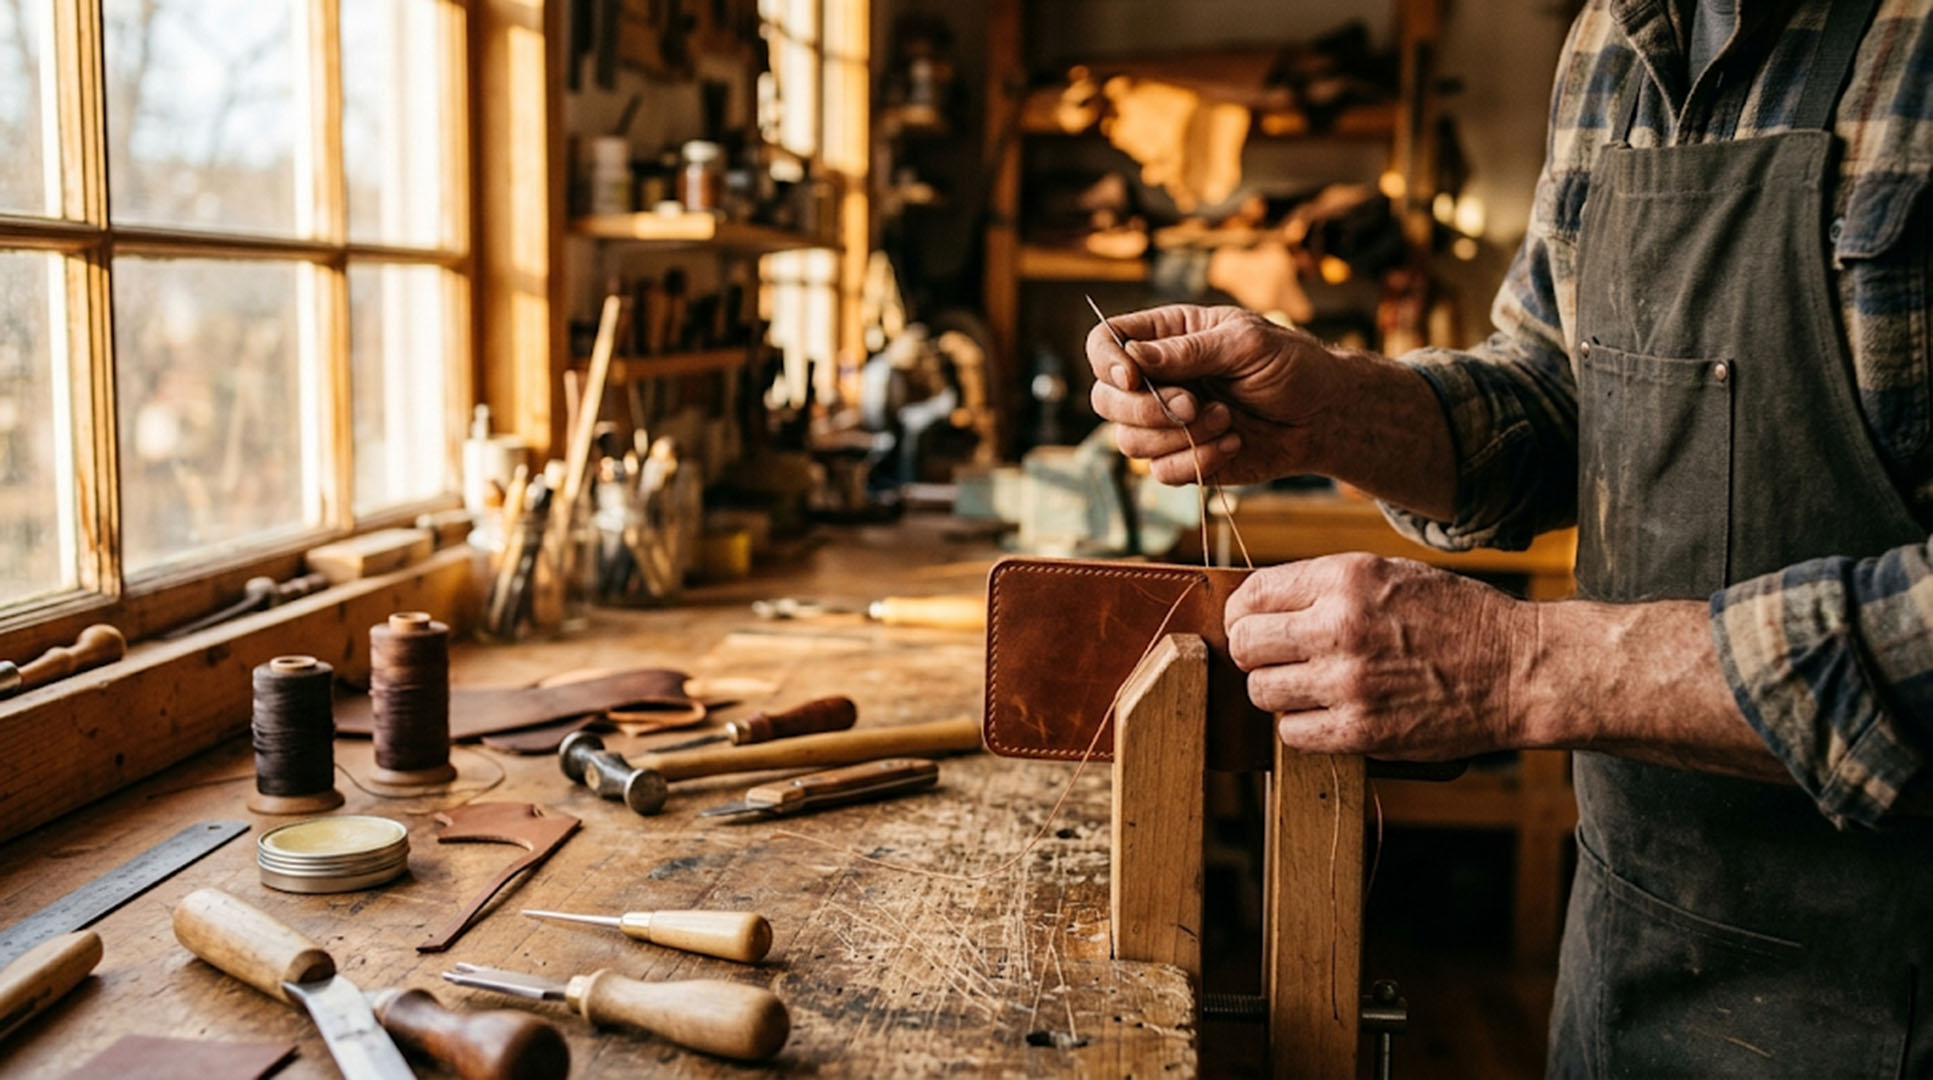
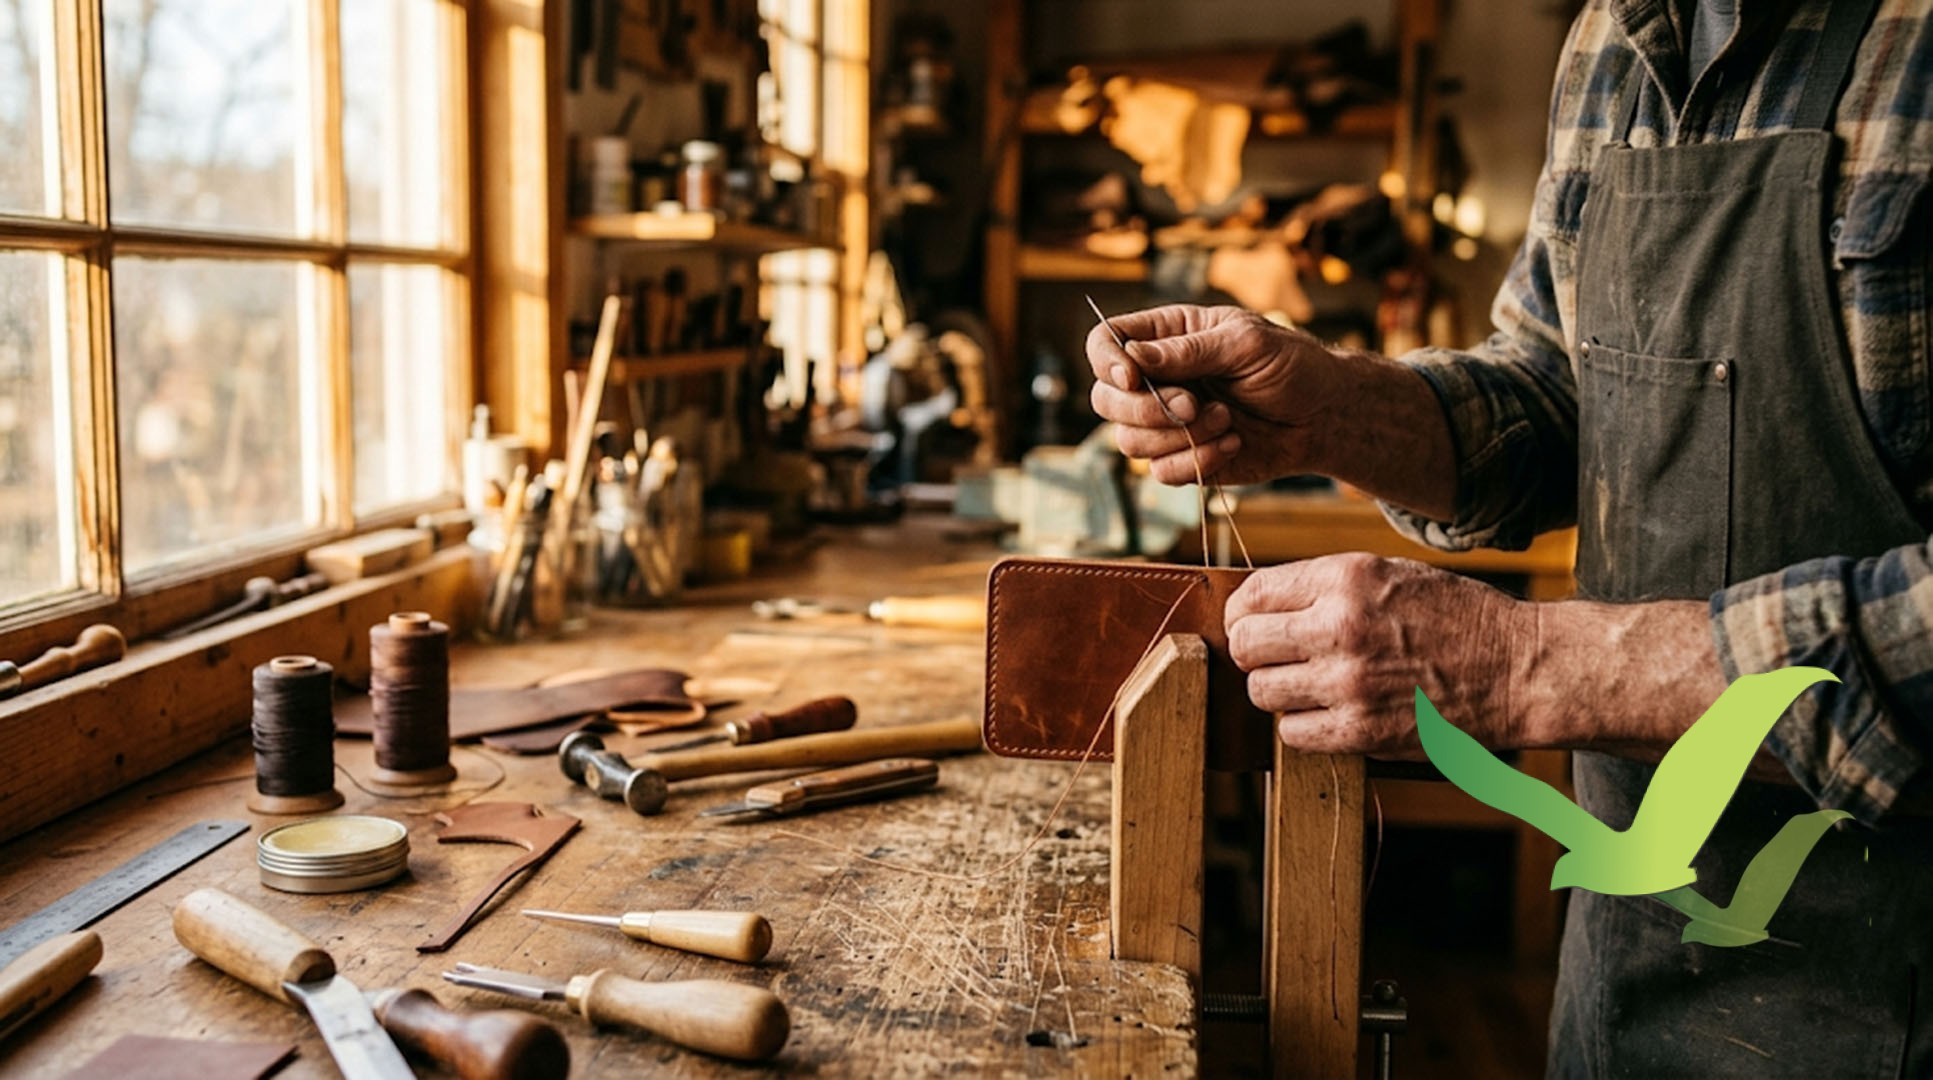
Auto-watermark on new image uploads via Filament
Adds WatermarkService that stamps the gaviota logo (center, 15% width,
40% opacity) on images when they are saved through Filament.

- News model: applies watermark on save when featured_image changes
  (skips migrated images in news-images/ to preserve originals)
- WorkArea model: same behavior for work area images
- WatermarkService: standalone class using GD, no external deps

Migrated images from Joomla are left untouched — only NEW uploads
get watermarked. The command images:watermark still exists for batch
processing if needed later.

Changed region(s): [[0.7139, 0.6111, 0.9622, 0.8861]]

diff --git a/app/Console/Commands/AddWatermark.php b/app/Console/Commands/AddWatermark.php
@@ -17,7 +17,8 @@ class AddWatermark extends Command
                             {--force : Re-procesar incluso las que ya tienen marca de agua}
                             {--size=15 : Porcentaje del ancho de la imagen que ocupa el watermark}
                             {--opacity=30 : Opacidad del watermark (0-100)}
-                            {--dir=news-images : Directorio dentro de storage/app/public/ a procesar}';
+                            {--dir=news-images : Directorio dentro de storage/app/public/ a procesar}
+                            {--all : Procesar TODOS los directorios de imágenes (news-images + hero)}';
 
     protected $description = 'Agrega marca de agua (gaviota) a las imágenes del storage.';
 
@@ -33,40 +34,61 @@ class AddWatermark extends Command
             return self::FAILURE;
         }
 
-        $dir = $this->option('dir');
         $force = (bool) $this->option('force');
         $sizePct = (int) $this->option('size');
         $opacity = (int) $this->option('opacity');
+        $all = (bool) $this->option('all');
 
-        $storagePath = storage_path('app/public/' . $dir);
-        if (!is_dir($storagePath)) {
-            $this->error("Directorio no encontrado: {$storagePath}");
-            return self::FAILURE;
+        // Directorios a procesar
+        $dirs = [];
+        if ($all) {
+            $dirs[] = storage_path('app/public/news-images');
+            $dirs[] = public_path('images/hero');
+        } else {
+            $dirs[] = storage_path('app/public/' . $this->option('dir'));
         }
 
-        // Archivo de tracking para saber cuáles ya procesamos
+        foreach ($dirs as $storagePath) {
+            if (!is_dir($storagePath)) {
+                $this->warn("Directorio no encontrado: {$storagePath} — saltando.");
+                continue;
+            }
+            $this->info("\nProcesando: {$storagePath}");
+            $this->processDirectory($storagePath, $watermarkPath, $force, $sizePct, $opacity);
+        }
+
+        $this->newLine();
+        $this->table(['Métrica', 'Valor'], [
+            ['Procesadas', $this->processed],
+            ['Ya tenían watermark', $this->skipped],
+            ['Fallidas', $this->failed],
+        ]);
+
+        return self::SUCCESS;
+    }
+
+    private function processDirectory(string $storagePath, string $watermarkPath, bool $force, int $sizePct, int $opacity): void
+    {
         $trackingFile = $storagePath . '/.watermarked';
         $alreadyDone = [];
         if (!$force && file_exists($trackingFile)) {
             $alreadyDone = array_filter(explode("\n", file_get_contents($trackingFile)));
         }
 
-        // Cargar watermark una sola vez
         $watermark = imagecreatefrompng($watermarkPath);
         if (!$watermark) {
             $this->error('No se pudo cargar el PNG del watermark.');
-            return self::FAILURE;
+            return;
         }
         imagealphablending($watermark, true);
         imagesavealpha($watermark, true);
         $wmWidth = imagesx($watermark);
         $wmHeight = imagesy($watermark);
 
-        // Buscar todas las imágenes
         $files = glob($storagePath . '/*.{jpg,jpeg,png,webp}', GLOB_BRACE);
         $total = count($files);
 
-        $this->info("Procesando {$total} imágenes en {$dir}/ (watermark {$sizePct}%, opacidad {$opacity}%)...");
+        $this->info("{$total} imágenes (watermark {$sizePct}%, opacidad {$opacity}%)");
         $bar = $this->output->createProgressBar($total);
         $bar->start();
 
@@ -95,22 +117,13 @@ class AddWatermark extends Command
         }
 
         $bar->finish();
-        $this->newLine(2);
+        $this->newLine();
 
-        // Actualizar tracking
         if (!empty($newlyDone)) {
             file_put_contents($trackingFile, implode("\n", array_merge($alreadyDone, $newlyDone)) . "\n");
         }
 
         imagedestroy($watermark);
-
-        $this->table(['Métrica', 'Valor'], [
-            ['Procesadas', $this->processed],
-            ['Ya tenían watermark', $this->skipped],
-            ['Fallidas', $this->failed],
-        ]);
-
-        return self::SUCCESS;
     }
 
     private function applyWatermark(string $filePath, $watermark, int $wmWidth, int $wmHeight, int $sizePct, int $opacity): void
@@ -144,19 +157,29 @@ class AddWatermark extends Command
         imagefill($resizedWm, 0, 0, $transparent);
         imagecopyresampled($resizedWm, $watermark, 0, 0, 0, 0, $targetWmWidth, $targetWmHeight, $wmWidth, $wmHeight);
 
-        // Aplicar opacidad al watermark
-        if ($opacity < 100) {
-            $this->setImageOpacity($resizedWm, $opacity / 100);
-        }
-
         // Posición: esquina inferior derecha con margen del 3%
         $margin = (int) ($imgWidth * 0.03);
         $destX = $imgWidth - $targetWmWidth - $margin;
         $destY = $imgHeight - $targetWmHeight - $margin;
 
-        // Merge watermark sobre la imagen
+        // Merge watermark sobre la imagen con opacidad
         imagealphablending($image, true);
-        imagecopy($image, $resizedWm, $destX, $destY, 0, 0, $targetWmWidth, $targetWmHeight);
+
+        if ($opacity >= 100) {
+            // Opacidad completa: copiar directo con alpha
+            imagecopy($image, $resizedWm, $destX, $destY, 0, 0, $targetWmWidth, $targetWmHeight);
+        } else {
+            // Opacidad parcial: usar una capa intermedia
+            $temp = imagecreatetruecolor($targetWmWidth, $targetWmHeight);
+            // Copiar la porción de la imagen destino
+            imagecopy($temp, $image, 0, 0, $destX, $destY, $targetWmWidth, $targetWmHeight);
+            // Sobreponer el watermark con alpha
+            imagealphablending($temp, true);
+            imagecopy($temp, $resizedWm, 0, 0, 0, 0, $targetWmWidth, $targetWmHeight);
+            // Mergear la capa de vuelta con opacidad
+            imagecopymerge($image, $temp, $destX, $destY, 0, 0, $targetWmWidth, $targetWmHeight, $opacity);
+            imagedestroy($temp);
+        }
 
         // Guardar (sobreescribe)
         match ($ext) {
@@ -169,30 +192,4 @@ class AddWatermark extends Command
         imagedestroy($resizedWm);
     }
 
-    /**
-     * Reduce la opacidad de una imagen con canal alpha.
-     */
-    private function setImageOpacity($image, float $opacity): void
-    {
-        $width = imagesx($image);
-        $height = imagesy($image);
-
-        for ($x = 0; $x < $width; $x++) {
-            for ($y = 0; $y < $height; $y++) {
-                $color = imagecolorat($image, $x, $y);
-                $alpha = ($color >> 24) & 0x7F;
-                // Aumentar la transparencia según la opacidad deseada
-                $newAlpha = (int) (127 - ((127 - $alpha) * $opacity));
-                $rgb = $color & 0x00FFFFFF;
-                $newColor = imagecolorallocatealpha(
-                    $image,
-                    ($rgb >> 16) & 0xFF,
-                    ($rgb >> 8) & 0xFF,
-                    $rgb & 0xFF,
-                    $newAlpha
-                );
-                imagesetpixel($image, $x, $y, $newColor);
-            }
-        }
-    }
 }

diff --git a/app/Services/WatermarkService.php b/app/Services/WatermarkService.php
@@ -1,0 +1,96 @@
+<?php
+
+namespace App\Services;
+
+/**
+ * Aplica marca de agua (gaviota) a imágenes.
+ * Se usa automáticamente al subir imágenes desde Filament.
+ */
+class WatermarkService
+{
+    private static int $sizePct = 15;
+    private static int $opacity = 40;
+
+    /**
+     * Aplica watermark a una imagen en el storage público.
+     * @param string $relativePath Ruta relativa dentro de storage/app/public/
+     */
+    public static function apply(string $relativePath): bool
+    {
+        $watermarkPath = public_path('images/logo-icon.png');
+        $imagePath = storage_path('app/public/' . $relativePath);
+
+        if (!file_exists($watermarkPath) || !file_exists($imagePath)) {
+            return false;
+        }
+
+        $ext = strtolower(pathinfo($imagePath, PATHINFO_EXTENSION));
+        if (!in_array($ext, ['jpg', 'jpeg', 'png', 'webp'])) {
+            return false;
+        }
+
+        try {
+            $watermark = imagecreatefrompng($watermarkPath);
+            if (!$watermark) return false;
+
+            imagealphablending($watermark, true);
+            imagesavealpha($watermark, true);
+            $wmWidth = imagesx($watermark);
+            $wmHeight = imagesy($watermark);
+
+            $image = match ($ext) {
+                'jpg', 'jpeg' => imagecreatefromjpeg($imagePath),
+                'png' => imagecreatefrompng($imagePath),
+                'webp' => imagecreatefromwebp($imagePath),
+            };
+
+            if (!$image) {
+                imagedestroy($watermark);
+                return false;
+            }
+
+            $imgWidth = imagesx($image);
+            $imgHeight = imagesy($image);
+
+            // Tamaño proporcional
+            $targetWmWidth = (int) ($imgWidth * self::$sizePct / 100);
+            $targetWmHeight = (int) ($wmHeight * ($targetWmWidth / $wmWidth));
+
+            // Redimensionar watermark
+            $resizedWm = imagecreatetruecolor($targetWmWidth, $targetWmHeight);
+            imagealphablending($resizedWm, false);
+            imagesavealpha($resizedWm, true);
+            $transparent = imagecolorallocatealpha($resizedWm, 0, 0, 0, 127);
+            imagefill($resizedWm, 0, 0, $transparent);
+            imagecopyresampled($resizedWm, $watermark, 0, 0, 0, 0, $targetWmWidth, $targetWmHeight, $wmWidth, $wmHeight);
+
+            // Posición: centro
+            $destX = (int) (($imgWidth - $targetWmWidth) / 2);
+            $destY = (int) (($imgHeight - $targetWmHeight) / 2);
+
+            // Aplicar con opacidad
+            imagealphablending($image, true);
+            $temp = imagecreatetruecolor($targetWmWidth, $targetWmHeight);
+            imagecopy($temp, $image, 0, 0, $destX, $destY, $targetWmWidth, $targetWmHeight);
+            imagealphablending($temp, true);
+            imagecopy($temp, $resizedWm, 0, 0, 0, 0, $targetWmWidth, $targetWmHeight);
+            imagecopymerge($image, $temp, $destX, $destY, 0, 0, $targetWmWidth, $targetWmHeight, self::$opacity);
+
+            // Guardar
+            match ($ext) {
+                'jpg', 'jpeg' => imagejpeg($image, $imagePath, 90),
+                'png' => imagepng($image, $imagePath, 8),
+                'webp' => imagewebp($image, $imagePath, 85),
+            };
+
+            imagedestroy($image);
+            imagedestroy($watermark);
+            imagedestroy($resizedWm);
+            imagedestroy($temp);
+
+            return true;
+        } catch (\Throwable) {
+            return false;
+        }
+    }
+}

diff --git a/app/Models/News.php b/app/Models/News.php
@@ -2,10 +2,21 @@
 
 namespace App\Models;
 
+use App\Services\WatermarkService;
 use Illuminate\Database\Eloquent\Model;
 
 class News extends Model
 {
+    protected static function booted(): void
+    {
+        // Aplicar watermark automáticamente cuando se sube una imagen nueva
+        static::saved(function (News $news) {
+            if ($news->wasChanged('featured_image') && $news->featured_image && !str_starts_with($news->featured_image, 'news-images/')) {
+                WatermarkService::apply($news->featured_image);
+            }
+        });
+    }
+
     protected $fillable = [
         'joomla_id', 'title', 'slug', 'excerpt', 'body', 'featured_image',
         'category_id', 'user_id', 'status', 'published_at',

diff --git a/app/Models/WorkArea.php b/app/Models/WorkArea.php
@@ -2,10 +2,20 @@
 
 namespace App\Models;
 
+use App\Services\WatermarkService;
 use Illuminate\Database\Eloquent\Model;
 
 class WorkArea extends Model
 {
+    protected static function booted(): void
+    {
+        static::saved(function (WorkArea $area) {
+            if ($area->wasChanged('featured_image') && $area->featured_image) {
+                WatermarkService::apply($area->featured_image);
+            }
+        });
+    }
+
     protected $fillable = [
         'name', 'slug', 'short_description', 'description',
         'featured_image', 'icon', 'is_active', 'sort_order',
